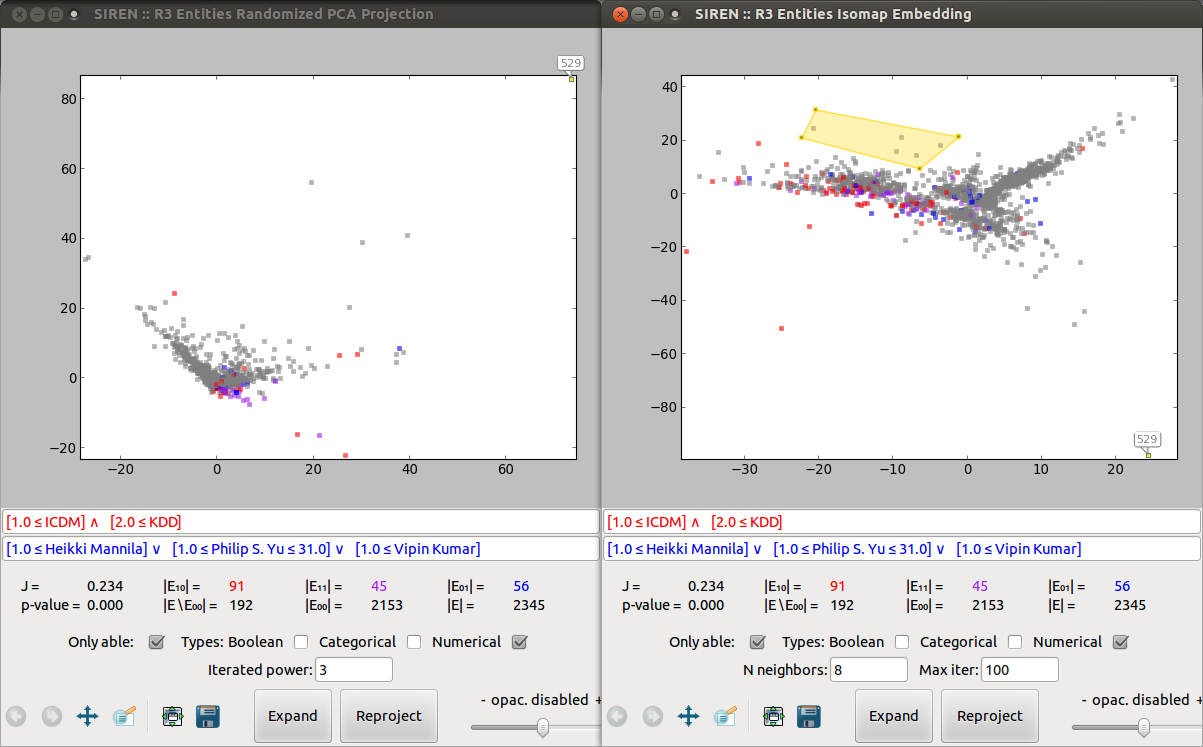
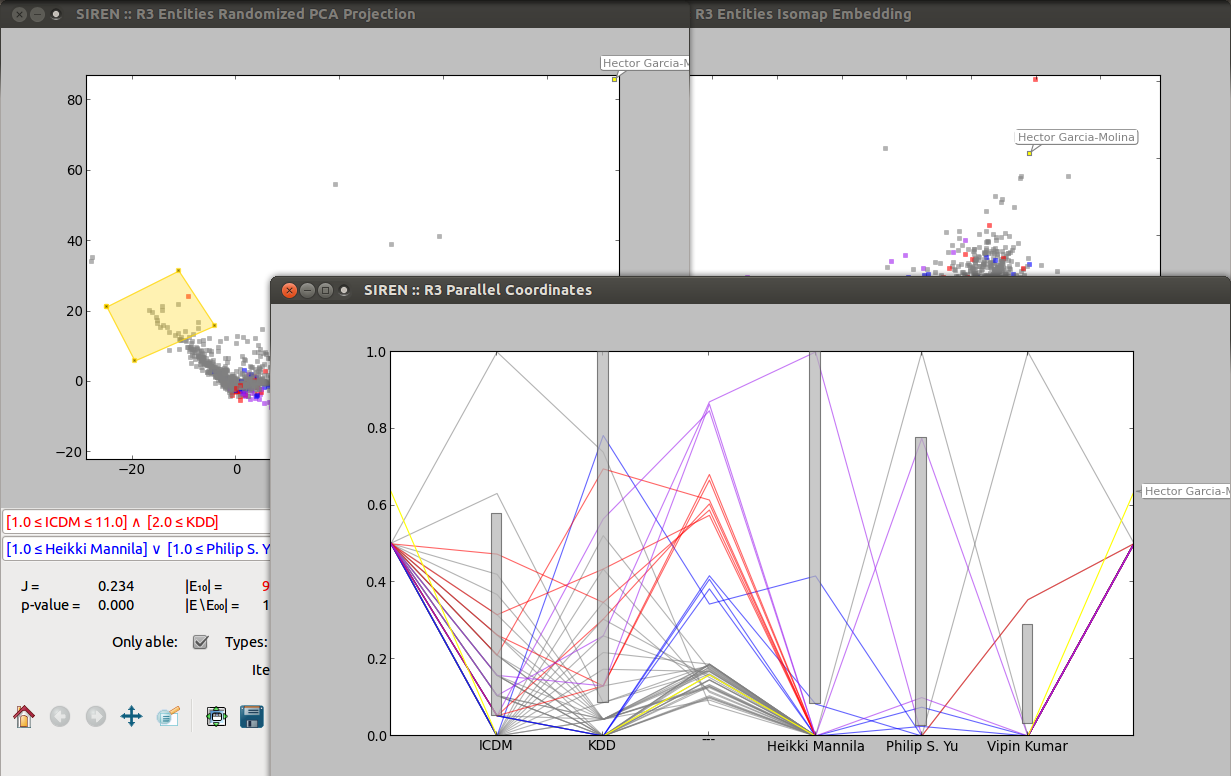
Menu entry for showing values Updated some screenshots showing names
git-svn-id: file:///home/galbrun/TKTL/redescriptors/old_svn/redescriptions-svn/sandbox@650 8b04a84e-e702-47ad-8570-c905424f7f45

diff --git a/siren/classSiren.py b/siren/classSiren.py
@@ -271,6 +271,11 @@ class Siren():
         if self.selectedTab["type"] in ["Var","Reds", "Row"]:
             if self.selectedTab.has_key("tab") and self.selectedTab["tab"].GetNumberRows() > 0:
 
+                if self.selectedTab["type"] in ["Reds", "Var"]:
+                    ID_DETAILS = wx.NewId()
+                    m_details = menuRed.Append(ID_DETAILS, "View details", "View variable values.")
+                    frame.Bind(wx.EVT_MENU, self.OnShowCol, m_details)
+                    
                 ID_ENABLED = wx.NewId()
                 m_enabled = menuRed.Append(ID_ENABLED, "En&able/Disable\tCtrl+D", "Enable/Disable current item.")
                 frame.Bind(wx.EVT_MENU, self.OnFlipEnabled, m_enabled)
@@ -813,6 +818,21 @@ class Siren():
         self.showTab("exp")
         self.expand(params)
 
+    def OnShowCol(self, event):
+        shw = False
+        if self.selectedTab["type"] in ["Var"]:
+            if self.selectedTab["short"] == "LHS":
+                self.showCol(0, self.selectedTab["tab"].getSelectedPos())
+                shw = True
+            elif self.selectedTab["short"] == "RHS":
+                self.showCol(1, self.selectedTab["tab"].getSelectedPos())
+                shw = True
+        elif self.selectedTab["type"] in ["Reds"]:
+            row = self.tabs["rows"]["tab"].showRidRed(self.tabs["rows"]["tab"].getSelectedRow(), self.selectedTab["tab"].getSelectedItem())
+            shw = True
+        if shw:
+            self.showTab("rows")
+
     def OnMineAll(self, event):
         self.showTab("exp")
         self.expand()
@@ -954,8 +974,10 @@ class Siren():
                                    +'\nYou can find help at '+self.helpInternetURL+'\nor '+self.helpURL, "error", "help")        
 
     def OnAbout(self, event):
-        wx.AboutBox(self.info)
+        wx.AboutBox(self.info)        
 
+    def showCol(self, side, col):
+        self.tabs["rows"]["tab"].showCol(side, col)
             
     def showDetailsBox(self, rid, red):
         row = self.tabs["rows"]["tab"].showRidRed(rid, red)

diff --git a/siren/reremi/classData.py b/siren/reremi/classData.py
@@ -1390,11 +1390,11 @@ def readDNCFromMulFiles(filenames):
     cols, N, coords, rnames = [[],[]], 0, None, None
     if len(filenames) >= 2:
         (cols, N) = readVariables(filenames[:2])
-        if len(filenames) >=5 :
+        if len(filenames) >=5  and filenames[4] is not None:
             coords = readCoords(filenames[4])
             if coords is not None and coords.shape[1] != N:
                 coords = None
-        if len(filenames) >=6 :
+        if len(filenames) >=6  and filenames[5] is not None:
             rnames = readRNames(filenames[5])
             if rnames is not None and len(rnames) != N:
                 rnames = None
@@ -1686,6 +1686,11 @@ def main():
     #              "/home/galbrun/redescriptors/data/rajapaja/worldclim_tp.densenum", None, None,
     #              "/home/galbrun/redescriptors/data/rajapaja/coordinates_poly.names",
     #              "/home/galbrun/redescriptors/data/rajapaja/entities.names"], "multiple")
+    data = Data(["/home/galbrun/redescriptors/data/dblp/conference_picked.sparsenum",
+                 "/home/galbrun/redescriptors/data/dblp/coauthor_picked.sparsenum", None, None,
+                 None,
+                 "/home/galbrun/redescriptors/data/dblp/coauthor_picked.names"], "multiple")
+    print data.hasRNames()
     # data.writeXML(open("tmp.xml", "w"))
 
 if __name__ == '__main__':

diff --git a/siren/DataWrapper.py b/siren/DataWrapper.py
@@ -415,10 +415,8 @@ class DataWrapper(object):
                 filenames.extend([None, None])
             else:
                 filenames.extend(names_filenames)
-            if coo_filename is not None:
-                filenames.append(coo_filename)
-            if entities_filename is not None:
-                filenames.append(entities_filename)
+            if coo_filename is not None or entities_filename is not None:
+                filenames.extend([coo_filename, entities_filename])
             data = Data(filenames, "multiple")
         except Exception:
             self._stopMessage()

diff --git a/siren/classGridTable.py b/siren/classGridTable.py
@@ -952,6 +952,11 @@ class RowTable(GridTable):
                 self.sc.remove(cid)
             self.redraw()
 
+    def showCol(self, side, col):
+        if self.cols_map.has_key((side, col)) and self.cols_map[(side, col)] not in self.sc:
+            self.sc.add(self.cols_map[(side, col)])
+            self.redraw()
+            self.grid.MakeCellVisible(self.getSelectedRow(), self.cols_map[(side, col)])
 
     def showRidRed(self, rid, red=None):
         row = self.getRowForItem(rid)
